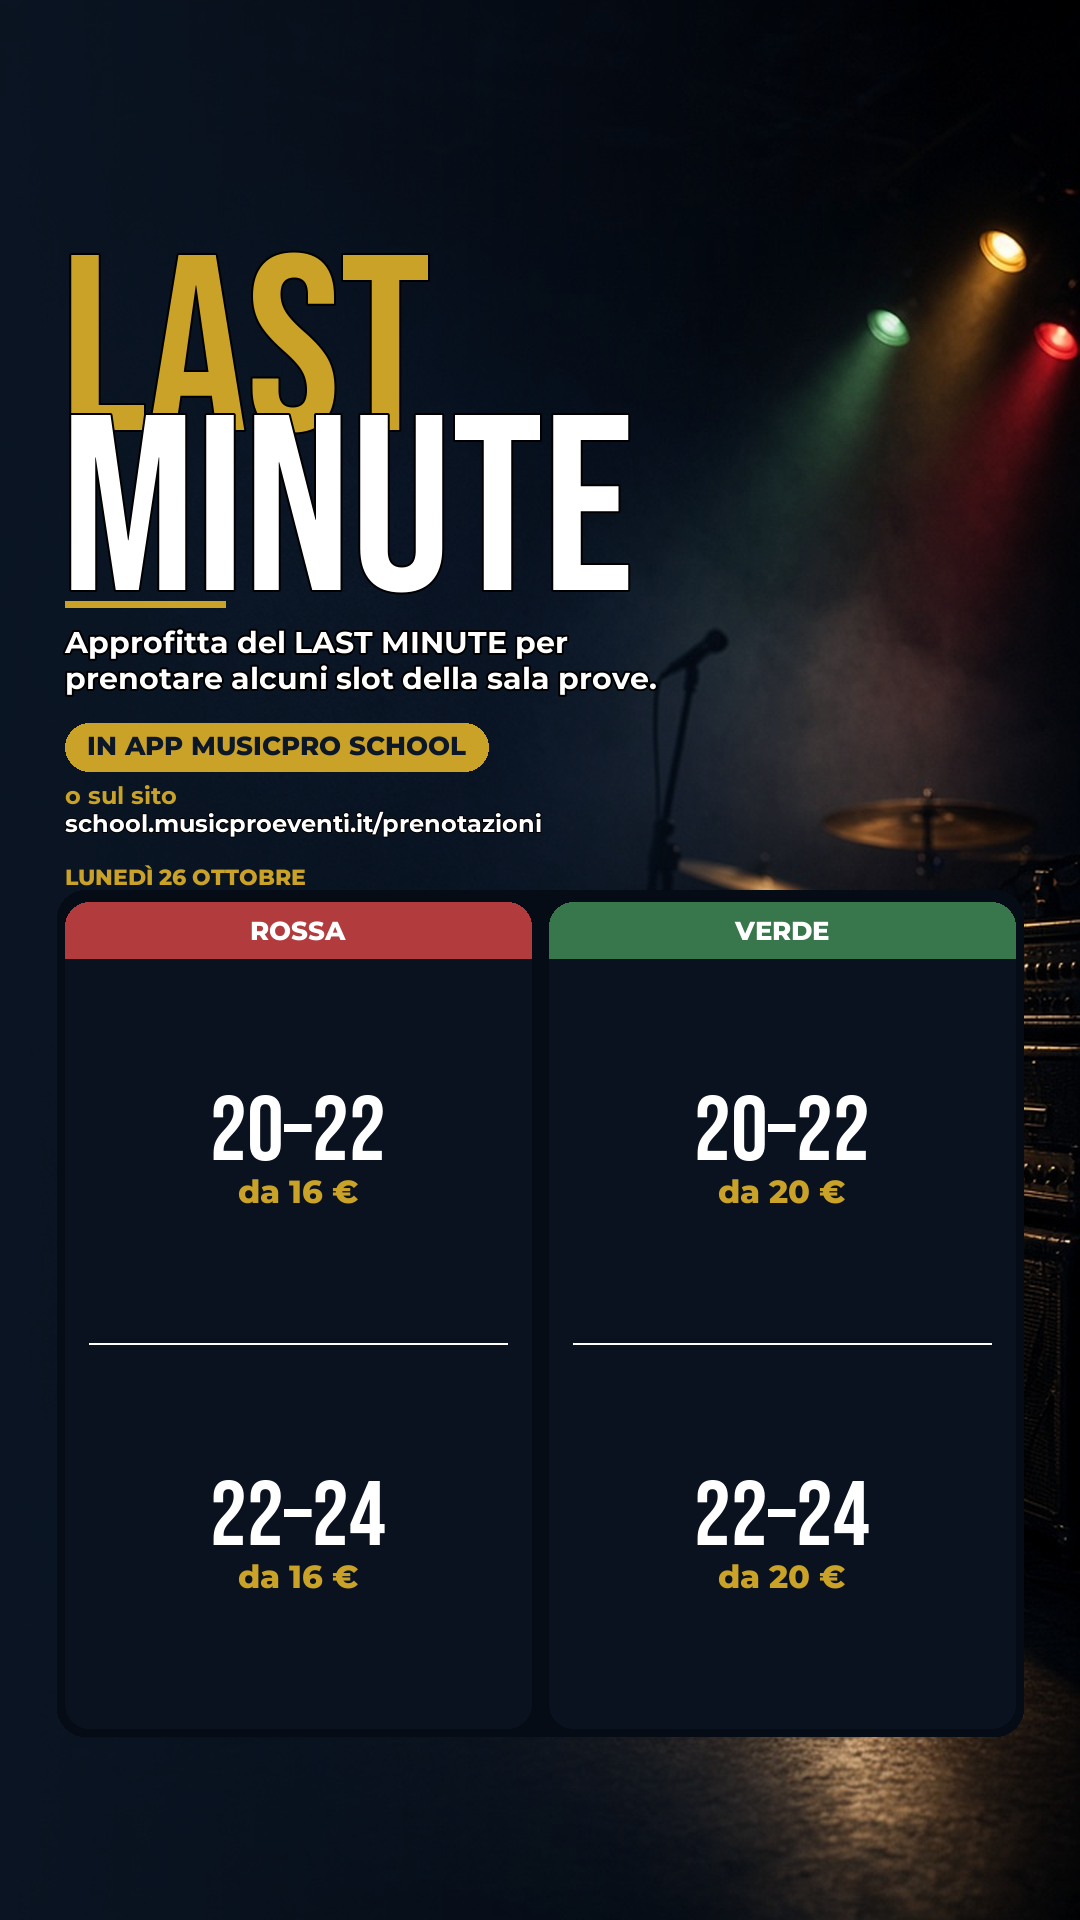
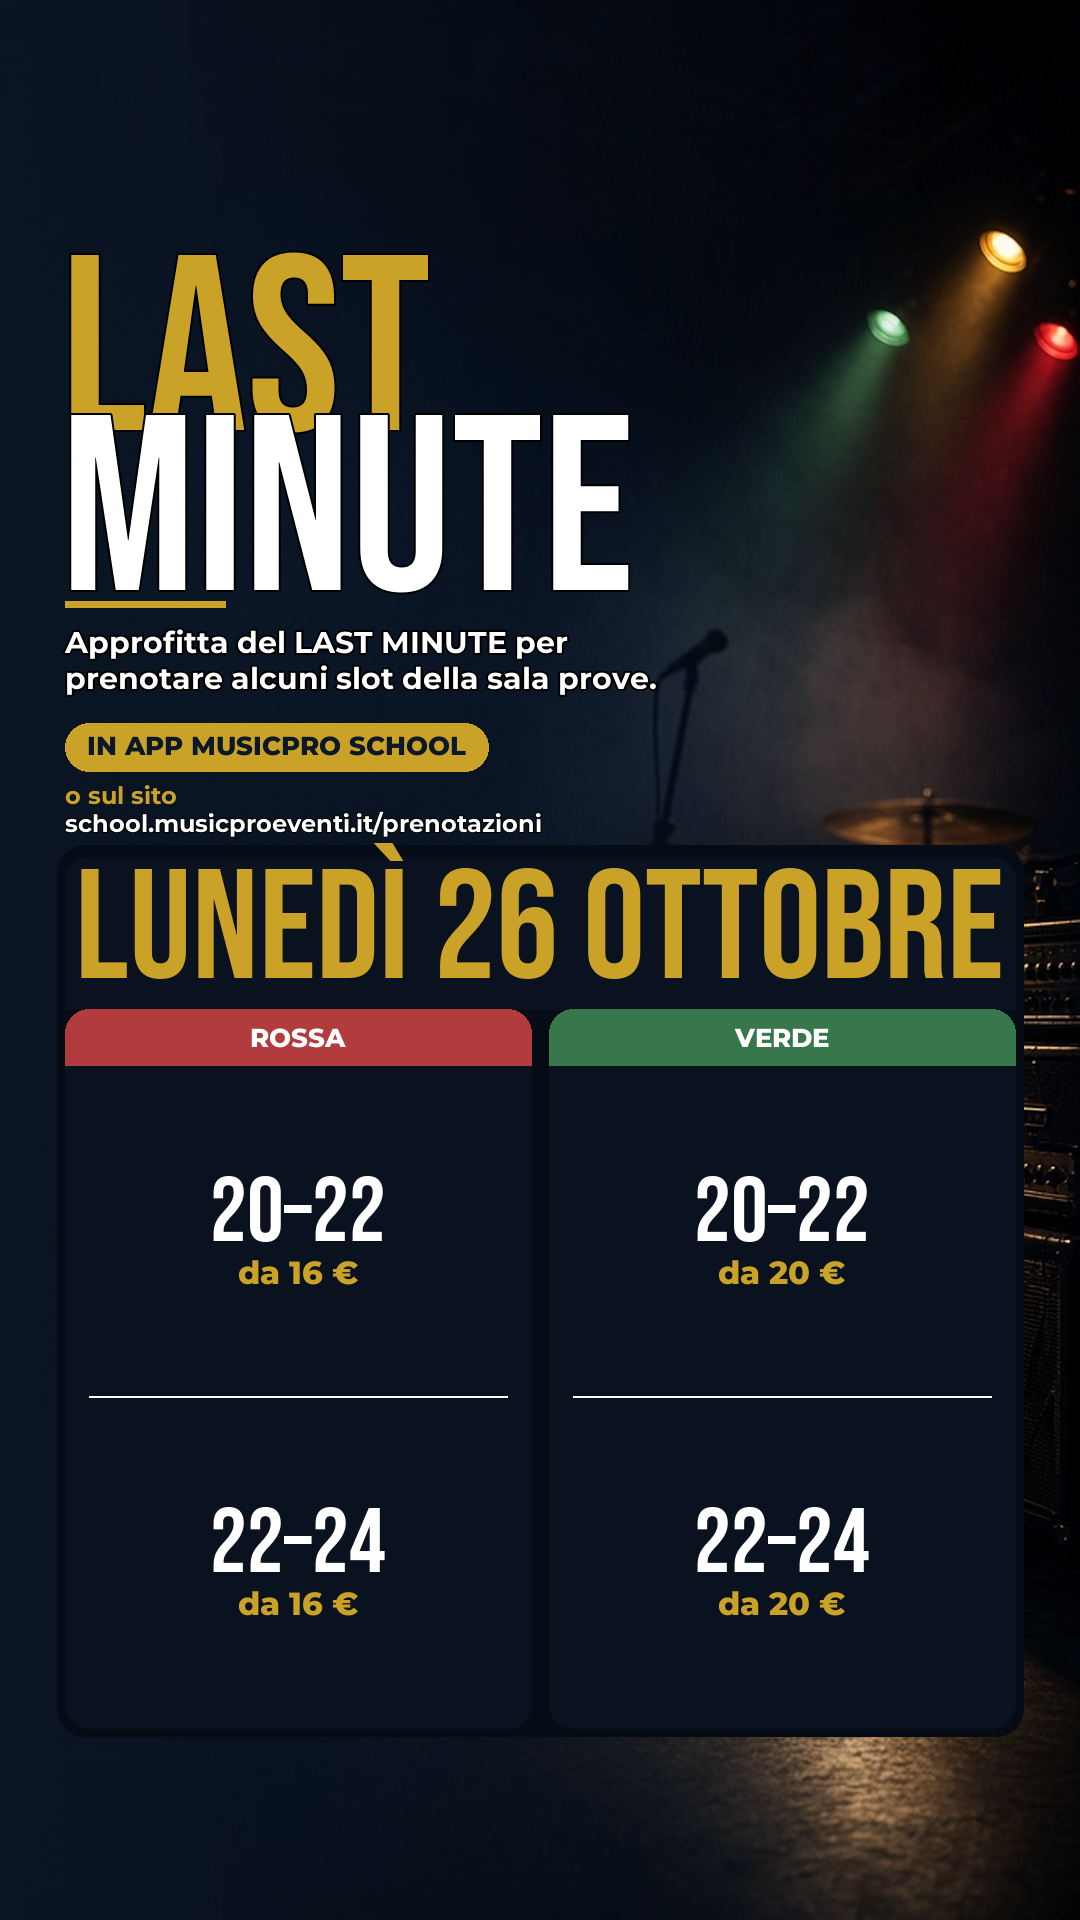
Ship pending work to production.
VAI 20261025-2232: allinea, salva e pubblica su main.

Changed region(s): [[0.0611, 0.4375, 0.9472, 0.6875], [0.1833, 0.75, 0.3667, 0.8438], [0.6417, 0.75, 0.825, 0.8438]]

diff --git a/scripts/compose-last-minute-story.py b/scripts/compose-last-minute-story.py
@@ -723,16 +723,9 @@ def compose_digest(args: argparse.Namespace) -> Image.Image:
     site_font = load_font(FONT_BOLD, 24)
     draw_shadow_text(draw, (x0, y), site, site_font, WHITE, anchor="lt", stroke_width=1)
     _tw, th = text_size(draw, site, site_font)
-    y += th + 28
+    y += th + 20
 
-    if args.date:
-        day_label = format_it_date(args.date).upper()
-        day_font = load_font(FONT_EXTRABOLD, 22)
-        draw.text((x0, y), day_label, font=day_font, fill=GOLD, anchor="lt")
-        _tw, th = text_size(draw, day_label, day_font)
-        y += th + 16
-
-    # Basso: griglia che riempie fino a quasi il fondo (lascia chrome IG).
+    # Basso: data a tutta larghezza delle colonne, poi griglia fino al fondo.
     by_sala: dict[str, list[tuple[str, str]]] = {}
     for sala, fascia, price_text in rows:
         by_sala.setdefault(sala, []).append((fascia, price_text))
@@ -745,29 +738,54 @@ def compose_digest(args: argparse.Namespace) -> Image.Image:
     header_h = 56
     name_font = load_font(FONT_EXTRABOLD, 26)
     title_path = FONT_BEBAS if FONT_BEBAS.is_file() else FONT_EXTRABOLD
+    date_label = format_it_date(args.date).upper() if args.date else ""
+    date_bar_h = 0
+    date_font = None
+    if date_label:
+        date_font = _fit_line_width(title_path, date_label, SAFE_W - 8, 200, min_size=72)
+        _dw, dh = text_size(draw, date_label, date_font)
+        date_bar_h = max(dh + 16, 108)
+    sala_top = card_top + date_bar_h
     # Pannello unico dietro le card: riempie il vuoto del pavimento.
     draw.rounded_rectangle(
         (x0 - 8, card_top - 12, SAFE_RIGHT + 8, floor + 8),
         radius=28,
         fill=(6, 12, 22, 236),
     )
+    if date_label and date_font:
+        draw.rounded_rectangle(
+            (x0, card_top, SAFE_RIGHT, card_top + date_bar_h),
+            radius=24,
+            fill=(10, 18, 32),
+        )
+        draw.rectangle(
+            (x0, card_top + date_bar_h // 2, SAFE_RIGHT, card_top + date_bar_h),
+            fill=(10, 18, 32),
+        )
+        draw.text(
+            ((x0 + SAFE_RIGHT) / 2, card_top + date_bar_h / 2 - 2),
+            date_label,
+            font=date_font,
+            fill=GOLD,
+            anchor="mm",
+        )
     for i, sala in enumerate(salas):
         items = by_sala[sala]
         left = x0 + i * (col_w + gap)
         right = left + col_w
         accent = ROOM_ACCENT[sala]
-        draw.rounded_rectangle((left, card_top, right, floor), radius=24, fill=(10, 18, 32))
-        draw.rounded_rectangle((left, card_top, right, card_top + header_h), radius=24, fill=accent)
-        draw.rectangle((left, card_top + 22, right, card_top + header_h), fill=accent)
+        draw.rounded_rectangle((left, sala_top, right, floor), radius=24, fill=(10, 18, 32))
+        draw.rounded_rectangle((left, sala_top, right, sala_top + header_h), radius=24, fill=accent)
+        draw.rectangle((left, sala_top + 22, right, sala_top + header_h), fill=accent)
         draw.text(
-            ((left + right) / 2, card_top + header_h / 2),
+            ((left + right) / 2, sala_top + header_h / 2),
             sala.upper(),
             font=name_font,
             fill=WHITE,
             anchor="mm",
         )
         n = max(len(items), 1)
-        body_top = card_top + header_h
+        body_top = sala_top + header_h
         cell_h = (floor - body_top) / n
         for j, (fascia, price_text) in enumerate(items):
             cy = body_top + j * cell_h

diff --git a/.cursor/skills/file-grafici/reference-storie-last-minute.md b/.cursor/skills/file-grafici/reference-storie-last-minute.md
@@ -85,7 +85,7 @@ Soggetto intero, dai bordi estremi in dentro. Sorgente pulita (foto sala), non i
 
 Siamo già sulla pagina MusicPro: **niente logo grande**. Il soggetto è **LAST MINUTE**.
 
-Se ci sono più slot, **una storia digest** (`--digest`): titolo LAST MINUTE, copy dal brief, «IN APP MUSICPRO SCHOOL» + URL sito bruciato, poi esempi `data / sala / fascia / da N €`.
+Se ci sono più slot, **una storia digest** (`--digest`): titolo LAST MINUTE, copy dal brief, «IN APP MUSICPRO SCHOOL» + URL sito bruciato. La **data** (es. LUNEDÌ 26 OTTOBRE) è grande e occupa tutta la larghezza delle colonne sala; sotto, card sala a tutta altezza con fascia / da N €.
 
 Quale sala, quando, CTA **oppure** quanto costa. Placeholder solo dal brief.
 
